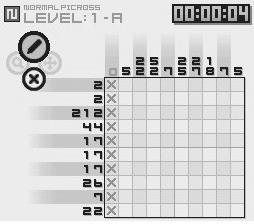
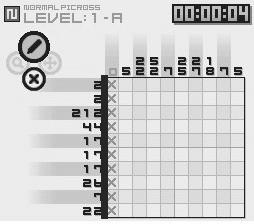
FindNumbers + DetectGrid fixed to use new puzzlegrid representation

Changed region(s): [[0.3858, 0.3125, 0.4409, 1.0]]

diff --git a/FindNumbers.py b/FindNumbers.py
@@ -4,28 +4,23 @@
 # May return a constant picture or a web camera image
 import Image
 import DetectGrid
+import ImageShow
+import ImageDraw
 
 def find_numbers(puzzlegrid, skewless_picture):
     positions = [];
     
+    width, height = skewless_picture.size
+    print "image size: ", width, height
+    
     # traverse grid, determine min/max x and y coords
-    min_x = max_x = puzzlegrid.grid[0][0]
-    min_y = max_y = puzzlegrid.grid[0][1]
+    min_x = int(puzzlegrid.grid[0][0])
+    max_x = int(puzzlegrid.grid[1][0])
+    min_y = int(puzzlegrid.grid[0][1])
+    max_y = int(puzzlegrid.grid[1][1])
     
-    for i in range(1, 4):
-        if puzzlegrid.grid[i][0] < min_x:
-            min_x = puzzlegrid.grid[i][0]
-        elif puzzlegrid.grid[i][0] > max_x:
-            max_x = puzzlegrid.grid[i][0]
-        if puzzlegrid.grid[i][1] < min_y:
-            min_y = puzzlegrid.grid[i][1]
-        elif puzzlegrid.grid[i][1] > max_y:
-            max_y = puzzlegrid.grid[i][1]
-    
-    #print min_x
-    #print max_x
-    #print min_y
-    #print max_y
+    print "min x, max x: ", min_x,  max_x
+    print "min_y, max_y: ", min_y,  max_y
     
     # convert image to grayscale array
     grayscale_picture = skewless_picture.convert("L")
@@ -33,84 +28,81 @@ def find_numbers(puzzlegrid, skewless_picture):
     
     # calculate average change in color per cell
     # compare to threshold, if greater, has number
-    thres = 10 #??
-    left_num_x = int(min_x / puzzlegrid.cell_length)
-    left_num_y = int((max_y - min_y) / puzzlegrid.cell_length)
+    THRES = 2000 #??
     
-    #print "left # cells: "
-    #print left_num_x
-    #print left_num_y
+    draw = ImageDraw.Draw(skewless_picture)
+    for y in range(min_y, 0, -puzzlegrid.cell_height):  
+        draw.line((min_x, y, max_x, y), fill = 128)
+    for x in range(min_x, 0, -puzzlegrid.cell_width):
+        draw.line((x, min_y, x, max_y), fill = 128)
     
-    # left
-    for i in range(left_num_x):
-        for j in range(left_num_y):
-            # for each cell, traverse pixels
-            
-            # calculate average
-            average = 0
-            for k in range(puzzlegrid.cell_length):
-                for l in range(puzzlegrid.cell_length):
-                    x = i * puzzlegrid.cell_length + k
-                    y = min_y + j * puzzlegrid.cell_length + l
-                    average += pixels[x, y] #??
-            average /= pow(puzzlegrid.cell_length, 2)
-            
-            # calculate variance
-            variance = 0
-            for k in range(puzzlegrid.cell_length):
-                for l in range(puzzlegrid.cell_length):
-                    x = i * puzzlegrid.cell_length + k
-                    y = min_y + j * puzzlegrid.cell_length + l
-                    variance += pow(pixels[x, y] - average, 2) #??
-            variance /= pow(puzzlegrid.cell_length, 2)
-            
-            #print "avg: "
-            #print average
-            #print "var: "
-            #print variance
-            
-            # has number, save cell top-left corner in positions
-            if variance > thres:
-                x = i * puzzlegrid.cell_length 
-                y = min_y + j * puzzlegrid.cell_length
-                positions.append((x, y))
-                
     # top
-    top_num_x = int((max_x - min_x) / puzzlegrid.cell_length)
-    top_num_y = int(min_y / puzzlegrid.cell_length)
-    
-    for i in range(top_num_x):
-        for j in range(top_num_y):
-            # for each cell, traverse pixels
+    for x in puzzlegrid.x_coords:
+        if x == max_x:
+            continue
             
+        for y in range(min_y - puzzlegrid.cell_height, 0, -puzzlegrid.cell_height):  
             # calculate average
             average = 0
-            for k in range(puzzlegrid.cell_length):
-                for l in range(puzzlegrid.cell_length):
-                    x = i * puzzlegrid.cell_length + k
-                    y = min_y + j * puzzlegrid.cell_length + l
-                    average += pixels[x, y] #??
-            average /= pow(puzzlegrid.cell_length, 2)
+            for k in range(puzzlegrid.cell_width):
+                for l in range(puzzlegrid.cell_height):
+                    curr_x = x + k
+                    curr_y = y + l
+                    average += pixels[curr_x, curr_y] #??
+            average /= (puzzlegrid.cell_width * puzzlegrid.cell_height)
             
             # calculate variance
             variance = 0
-            for k in range(puzzlegrid.cell_length):
-                for l in range(puzzlegrid.cell_length):
-                    x = min_x + i * puzzlegrid.cell_length + k
-                    y = j * puzzlegrid.cell_length + l
-                    variance += pow(pixels[x, y] - average, 2) #??
-            variance /= pow(puzzlegrid.cell_length, 2)
-            
-            #print "avg: "
-            #print average
-            #print "var: "
-            #print variance
+            for k in range(puzzlegrid.cell_width):
+                for l in range(puzzlegrid.cell_height):
+                    curr_x = x + k
+                    curr_y = y + l
+                    variance += pow(pixels[curr_x, curr_y] - average, 2) #??
+            variance /= (puzzlegrid.cell_width * puzzlegrid.cell_height)
             
             # has number, save cell top-left corner in positions
-            if variance > thres:
-                x = min_x + i * puzzlegrid.cell_length 
-                y = j * puzzlegrid.cell_length
+            if variance > THRES:
                 positions.append((x, y))
+            else:
+                break
+    # left
+    for y in puzzlegrid.y_coords:
+        if y == max_y:
+            continue
+            
+        for x in range(min_x - puzzlegrid.cell_width, 0, -puzzlegrid.cell_width):
+            # calculate average
+            average = 0
+            for k in range(puzzlegrid.cell_width):
+                for l in range(puzzlegrid.cell_height):
+                    curr_x = x + k
+                    curr_y = y + l
+                    average += pixels[curr_x, curr_y] #??
+            average /= (puzzlegrid.cell_width * puzzlegrid.cell_height)
+            
+            # calculate variance
+            variance = 0
+            for k in range(puzzlegrid.cell_width):
+                for l in range(puzzlegrid.cell_height):
+                    curr_x = x + k
+                    curr_y = y + l
+                    variance += pow(pixels[curr_x, curr_y] - average, 2) #??
+            variance /= (puzzlegrid.cell_width * puzzlegrid.cell_height)
+            
+            # has number, save cell top-left corner in positions
+            if variance > THRES:
+                positions.append((x, y))
+            else:
+                break
+                
+    #draw = ImageDraw.Draw(skewless_picture)
+    BOXSIZE = 3
+    for point in positions:
+        ptx = point[0]
+        pty = point[1]  
+        draw.rectangle([ptx-BOXSIZE, pty-BOXSIZE, ptx+BOXSIZE, pty+BOXSIZE], fill=128)
+    del draw
+    ImageShow.show(skewless_picture, 'with points')
 
     return positions # number positions
 

diff --git a/picross.py b/picross.py
@@ -3,22 +3,25 @@
 # Main skeleton for Picross Solver
 # Indentation is set to 4 spaces, no hard tabs
 
+import Image
 import GetPicture
 import AntiSkew
 import DetectGrid
 import FindNumbers
-import OCRNumbers
-import PicrossSolver
-import DisplayPuzzle
+#import OCRNumbers
+#import PicrossSolver
+#import DisplayPuzzle
 
 # main
 if __name__=='__main__':
-    original_picture = GetPicture.picture()
+    #original_picture = GetPicture.picture()
+    test_pic = './images/blue.jpg'
+    original_picture = Image.open(test_pic)
     skewless_picture = AntiSkew.fix_skew(original_picture)
     puzzlegrid = DetectGrid.detect_lines(skewless_picture,"test")
     number_positions = FindNumbers.find_numbers(puzzlegrid, skewless_picture)
-    puzzle = OCRNumbers.ocr(number_positions, skewless_picture)
-    solution = PicrossSolver.solve(puzzle)
-    DisplayPuzzle.visualize(solution)
+    #puzzle = OCRNumbers.ocr(number_positions, skewless_picture)
+    #solution = PicrossSolver.solve(puzzle)
+    #DisplayPuzzle.visualize(solution)
 
 

diff --git a/DetectGrid.py b/DetectGrid.py
@@ -4,7 +4,7 @@
 # May return a constant picture or a web camera image
 import Image, ImageDraw
 import ImageFilter
-import ImageOps
+import ImageOps, ImageShow
 #import heapq
 import Representations
 import prewitt
@@ -85,12 +85,13 @@ def detect_lines(picture, name):
     draw.rectangle(grid_coords,outline=128)
     del draw
     combined.save("./images/painted_lines_both_"+name+".jpg")
+    ImageShow.show(combined,"blah")
     
 
     # return a Grid Representation of this solution
-    cell_length = projected_avg_x
+    cell_width = projected_avg_x
     cell_height = projected_avg_y
-    gr = Representations.GridRep(grid_coords, cell_length, cell_height)
+    gr = Representations.GridRep(grid_coords, ycoords, xcoords, cell_height, cell_width)
     return gr
 
 def extrapolate_coords(start, avg):

diff --git a/Representations.py b/Representations.py
@@ -11,9 +11,12 @@ class PuzzleRep:
 # A GridRep.grid is an array of coordinates of the image grid corners.
 # GridRep.cell_length is the length of the grid squares.
 class GridRep:
-    def __init__(self, grid, cell_length):
+    def __init__(self, grid, x_coords, y_coords, cell_width, cell_height):
         self.grid = grid
-        self.cell_length = cell_length
+        self.x_coords = x_coords
+        self.y_coords = y_coords
+        self.cell_width = cell_width
+        self.cell_height = cell_height
 
 # A SolutionRep.solution is a 2D boolean array representing
 # which boxes within the puzzle should be filled in.

diff --git a/AntiSkew.py b/AntiSkew.py
@@ -73,6 +73,8 @@ def fix_skew(picture):
     picture = Image.composite(picture, white, picture)
     width, height = picture.size
     
+    ImageShow.show(picture, 'anti-skewed')
+    
     return picture # picture
 
 
